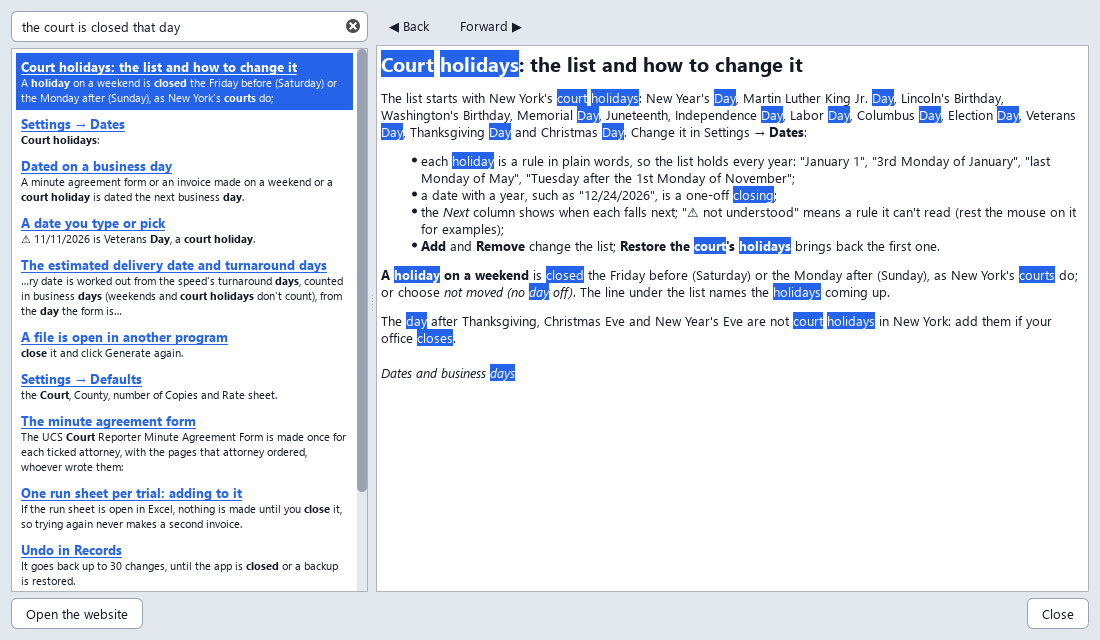
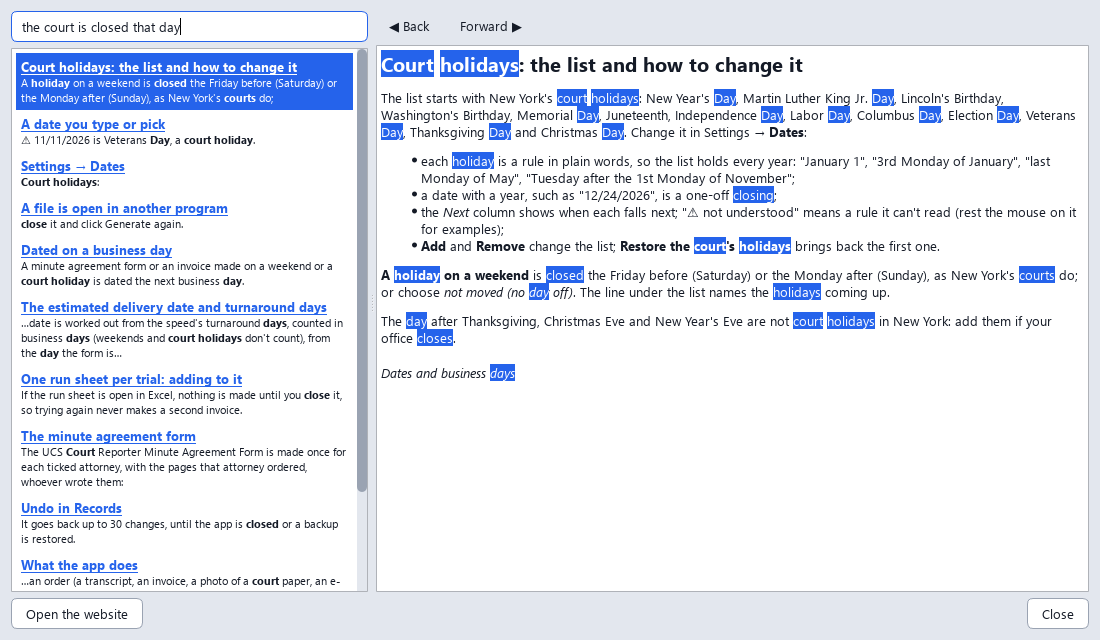
Site for 2.18.0: Settings you can find, the judge's index, the new page names
A section on the rearranged Settings window (settings.png: its page list and the Invoices page) with Find a setting,
Ctrl+, and the Judge's index choice; every "Settings ->" path names the page the setting is on now; help.png
retaken (its results named the old Defaults tab).

Changed region(s): [[0.0, 0.1875, 0.3091, 0.9375], [0.3091, 0.0312, 0.34, 0.0625]]

diff --git a/docs/index.html b/docs/index.html
@@ -80,7 +80,7 @@
     <ol class="steps">
       <li><b>Drop it in</b>A PDF (transcript, invoice), a photo, or paste the e-mail text or a screenshot with Ctrl+V.</li>
       <li><b>Check the details</b>Every field shows where it came from. Guesses are highlighted, and a list offers other candidates. Anything to look at before you generate is listed at the top of the form, each a link to its place. No case name in the document? An earlier job with the same index number in your records suggests one, highlighted for you to check.</li>
-      <li><b>Tick who ordered, and the speeds</b>In <b>Who ordered</b>, tick the firms who ordered: a firm is one row, naming all its attorneys on the title page, and gets one invoice and one agreement (No. of copies follows). In a trial, one tick is the whole trial, every day of it, at the speed its row names; a firm that ordered one day, or a few pages, says so in its row. Two rows that might be one firm, "Smith Law" and "Smith Law Group"? You're asked, <b>Same firm</b> or <b>Not the same</b>, and the app remembers your answer (untick <b>Remember</b> to answer for now only; Settings &rarr; Invoice lists your answers, so you can forget one). Beside the <b>Speed</b> in Who ordered, tick the speeds you offer, once: the invoice lists them all, each at its own price, and the agreement form names one speed at one rate, Expedited when you offer it, unless you pick another there. An e-mail asking for another speed? It's pointed out, and Generate asks you which. Each firm gets a colour, warm for the plaintiffs' firms (orange, red, pink...), cool for the defense (blue, teal, violet...): a small square of it beside the name and a stripe at its edge, the same on every day of a trial and in every card. Point at the square to see the side. <b>Who pays what</b> shows each firm's invoice in short as you tick. Rates and the estimated delivery date follow your rate sheet.</li>
+      <li><b>Tick who ordered, and the speeds</b>In <b>Who ordered</b>, tick the firms who ordered: a firm is one row, naming all its attorneys on the title page, and gets one invoice and one agreement (No. of copies follows). In a trial, one tick is the whole trial, every day of it, at the speed its row names; a firm that ordered one day, or a few pages, says so in its row. Two rows that might be one firm, "Smith Law" and "Smith Law Group"? You're asked, <b>Same firm</b> or <b>Not the same</b>, and the app remembers your answer (untick <b>Remember</b> to answer for now only; Settings &rarr; Reading documents &rarr; Firms you answered lists your answers, so you can forget one). Beside the <b>Speed</b> in Who ordered, tick the speeds you offer, once: the invoice lists them all, each at its own price, and the agreement form names one speed at one rate, Expedited when you offer it, unless you pick another there. An e-mail asking for another speed? It's pointed out, and Generate asks you which. Each firm gets a colour, warm for the plaintiffs' firms (orange, red, pink...), cool for the defense (blue, teal, violet...): a small square of it beside the name and a stripe at its edge, the same on every day of a trial and in every card. Point at the square to see the side. <b>Who pays what</b> shows each firm's invoice in short as you tick. Rates and the estimated delivery date follow your rate sheet.</li>
       <li><b>Generate</b>Tick what to make in the Outputs row: minute agreement, invoice, MOFR, run sheet, each saying how many files it will make as you tick attorneys (<b>Options ▾</b> holds the choices that stay the same from job to job, and the invoice has a card of its own in the form). The button says what it makes: <i>Generate 6/4/2026 only</i>, <i>Generate all 3 days</i>. You see every file, and the math, before anything is saved; then the PDFs are saved, one per attorney you tick, and the run sheet gets the day's takes. Ctrl+Enter does it from the keyboard.</li>
     </ol>
   </div>
@@ -90,7 +90,7 @@
   <div class="wrap two">
     <div>
       <h2>A hundred orders? Drop the whole folder.</h2>
-      <p>Batch mode reads any number of documents and sorts them into one job per case and date. A transcript and its invoice make one form, not two. Two days of the same case make two jobs, but <b>Generate all</b> gives each firm <b>one invoice</b> and one minute agreement for all the days it ordered, and the trial one MOFR (Settings &rarr; Options switches back to forms for each day). Tick the jobs you want and press <b>Generate all</b>: the preview shows every file and the math first, and nothing is saved until you say so. The ticks decide what counts: every card on the right shows all the ticked days, whichever one is shown, so untick a day to see what difference it makes (it greys out but stays in the list). Days already made keep their tick and get a ✓, and the button says what is left: <i>Generate the 1 day left</i>. The list on the left shows each job's case, date and day of the week, oldest first (click a heading to sort by it), the <b>Total pages</b> (every reporter's, no word index) and <b>Your pages</b> (those you wrote); a job read from several documents lists them under it, and a right-click on one shows its text or moves it to a job of its own. A ⚠ next to a job means something to check; hover over it to see what. <b>New job</b> clears the list without asking, and <b>Undo</b> brings it all back for a few seconds.</p>
+      <p>Batch mode reads any number of documents and sorts them into one job per case and date. A transcript and its invoice make one form, not two. Two days of the same case make two jobs, but <b>Generate all</b> gives each firm <b>one invoice</b> and one minute agreement for all the days it ordered, and the trial one MOFR (Settings &rarr; Trials switches back to forms for each day). Tick the jobs you want and press <b>Generate all</b>: the preview shows every file and the math first, and nothing is saved until you say so. The ticks decide what counts: every card on the right shows all the ticked days, whichever one is shown, so untick a day to see what difference it makes (it greys out but stays in the list). Days already made keep their tick and get a ✓, and the button says what is left: <i>Generate the 1 day left</i>. The list on the left shows each job's case, date and day of the week, oldest first (click a heading to sort by it), the <b>Total pages</b> (every reporter's, no word index) and <b>Your pages</b> (those you wrote); a job read from several documents lists them under it, and a right-click on one shows its text or moves it to a job of its own. A ⚠ next to a job means something to check; hover over it to see what. <b>New job</b> clears the list without asking, and <b>Undo</b> brings it all back for a few seconds.</p>
     </div>
     <img class="shot" src="batch.png" alt="Batch mode: five jobs in the list on the left, oldest first, with their day of the week, the Total pages and Your pages (30 and 18 for a trial day two reporters wrote), the Who ordered card: the trial's three firms each with a square and a stripe of its colour, two of them ticked once for the whole trial (3 days) at Expedite, with Your pages billed to each (52 of 74 total), and the Outputs row: how many files each output makes for this day and for all the days, Generate this job and Generate all 5 jobs">
   </div>
@@ -111,8 +111,8 @@
     <img class="shot" src="invoice.png" alt="One invoice for two days of a case, listing the Regular and Expedite amounts">
     <div>
       <h2>Invoices from your transcripts</h2>
-      <p>Drop a transcript PDF and tick <b>Invoice</b>. The page count leaves out the word index printed after the transcript, and the line under it says so: "Transcript pages 378&ndash;460 &middot; excludes the 13 word-index pages after them". A Min-U-Script cover before the title page isn't a page either: it isn't counted or billed (a typed cover page still is). It is counted four ways (up to the index, by the line numbers, by the printed page numbers, and the index found from the end); if they disagree, or the index would be more than a quarter of the PDF, the field turns amber and tells you why. The page count and your rate sheet price the original, each party's copy and e-mailed copy, and for long transcripts an index for each party, plus one for the judge that the parties split. Whether there is an index is decided on the whole transcript, every reporter's pages (50 total pages or more to start with): your 45 pages of 83 total pages get one, charged on your 45. Typed fewer pages in <b>Est. number of pages</b> than the transcript has, and that would change it (40 of 83, say)? <b>Generate</b> asks you instead of deciding, and remembers your answer for that day; <b>Peripherals…</b> shows it and lets you change it. The speeds you tick under <b>Speeds offered</b> (Regular and Expedited to start with) are the ones the invoice offers, each with its turnaround and amount, and with how to pay you. The agreement form names one of them, at one rate per page: Expedited when you offer it, otherwise the slowest. Settings &rarr; Invoice changes that rule, and the <b>Speed</b> dropdown in <b>Who ordered</b> changes it for the job, every day of a trial. No transcript, just a caption page? Type the pages in <b>Est. number of pages</b> and the invoice bills them. Want your page count, your pages for each day and the charges spelled out for this job? Tick <b>Show granular detail</b>, and choose what it shows. <b>Peripherals…</b> drops the e-mailed copy, or says yes or no to the index, for this job only, and the <b>Invoice</b> card says why there is an index or not: "83 total pages, 50 or more". The notes on the invoice are yours to write, too: place them where you like and have them show only when they apply ("delivered once every party has paid" only when several parties ordered). Four firms sharing the pages can come to part of a cent a page ($6.6125): keep every fraction and round once at the end, as before, or set <b>Rounding</b> to <i>The price a page, to the cent</i> to bill $6.61 &times; 1,000 pages = $6,610.00, the way a firm checks it with a calculator. The prices in Who ordered which pages&hellip; are rounded the same way.</p>
-      <p>Shared the trial with another reporter? The invoice bills only <b>your</b> pages, the ones with your initials at the foot: 65 of a 150-page transcript, say. <b>Whose pages…</b> lets you tick <b>My pages</b>, another reporter's pages, or <b>The whole transcript</b>, and the app asks when it can't tell. Each other reporter you tick gets invoices for their own pages, in their name, with their address and payment details (Settings &rarr; Run sheet &rarr; Invoices for, or <b>Details…</b>), numbered apart from yours (DS-2026-0001), with file names that say whose they are. Sample shown uses made-up names.</p>
+      <p>Drop a transcript PDF and tick <b>Invoice</b>. The page count leaves out the word index printed after the transcript, and the line under it says so: "Transcript pages 378&ndash;460 &middot; excludes the 13 word-index pages after them". A Min-U-Script cover before the title page isn't a page either: it isn't counted or billed (a typed cover page still is). It is counted four ways (up to the index, by the line numbers, by the printed page numbers, and the index found from the end); if they disagree, or the index would be more than a quarter of the PDF, the field turns amber and tells you why. The page count and your rate sheet price the original, each party's copy and e-mailed copy, and for long transcripts an index for each party, plus one for the judge that the parties split. Whether there is an index is decided on the whole transcript, every reporter's pages (50 total pages or more to start with): your 45 pages of 83 total pages get one, charged on your 45. Typed fewer pages in <b>Est. number of pages</b> than the transcript has, and that would change it (40 of 83, say)? <b>Generate</b> asks you instead of deciding, and remembers your answer for that day; <b>Peripherals…</b> shows it and lets you change it. The speeds you tick under <b>Speeds offered</b> (Regular and Expedited to start with) are the ones the invoice offers, each with its turnaround and amount, and with how to pay you. The agreement form names one of them, at one rate per page: Expedited when you offer it, otherwise the slowest. Settings &rarr; Rates and speeds changes that rule, and the <b>Speed</b> dropdown in <b>Who ordered</b> changes it for the job, every day of a trial. No transcript, just a caption page? Type the pages in <b>Est. number of pages</b> and the invoice bills them. Want your page count, your pages for each day and the charges spelled out for this job? Tick <b>Show granular detail</b>, and choose what it shows. <b>Peripherals…</b> drops the e-mailed copy, or says yes or no to the index, for this job only, and the <b>Invoice</b> card says why there is an index or not: "83 total pages, 50 or more". The notes on the invoice are yours to write, too: place them where you like and have them show only when they apply ("delivered once every party has paid" only when several parties ordered). Four firms sharing the pages can come to part of a cent a page ($6.6125): keep every fraction and round once at the end, as before, or set <b>Rounding</b> to <i>The price a page, to the cent</i> to bill $6.61 &times; 1,000 pages = $6,610.00, the way a firm checks it with a calculator. The prices in Who ordered which pages&hellip; are rounded the same way.</p>
+      <p>Shared the trial with another reporter? The invoice bills only <b>your</b> pages, the ones with your initials at the foot: 65 of a 150-page transcript, say. <b>Whose pages…</b> lets you tick <b>My pages</b>, another reporter's pages, or <b>The whole transcript</b>, and the app asks when it can't tell. Each other reporter you tick gets invoices for their own pages, in their name, with their address and payment details (Settings &rarr; Other reporters &rarr; Invoices for, or <b>Details…</b>), numbered apart from yours (DS-2026-0001), with file names that say whose they are. Sample shown uses made-up names.</p>
     </div>
   </div>
 </section>
@@ -131,8 +131,8 @@
   <div class="wrap two">
     <div>
       <h2>Who pays for what, in plain sight</h2>
-      <p>Who ordered, what and at what speed, in one card: <b>Who ordered</b> lists every firm of the trial, whichever day you're looking at. Drop the four transcripts of a trial, tick the two firms that ordered it, and that's it: each orders the whole trial, at the speed its row names (<i>Expedite</i>, say), and Generate all bills it that way, without a question. A day you drop in later is theirs too. A firm that ordered only one day, or a few pages? Its <b>What</b> box makes it <i>Only 6/4/2026</i>, or opens Who ordered which pages… for the rest, and its tick goes half full. Its <b>Speed</b> box names the speed it's billed, and choosing another sets it for every day. A firm ordering alone shows <i>They choose: Regular or Expedite</i>: its invoice lists each speed. The line under the table says it in words ("Counsel &amp; Counsel and Smith Law: the whole trial (4 days), at Expedite."), and what Generate all will bill: a ✓ for a day invoiced already, and in amber when an invoice won't be made yet (a day nobody ordered, an excerpt to check, whose pages to bill). Each firm has a square and a stripe of its colour, the same on every day. Rather tick each day on its own? Settings &rarr; Options. Opened again from Records, a trial comes back with who ordered each day. <b>Generate all</b> asks before it bills a case with a day not decided: go back and decide, or go on without it.</p>
-      <p><b>Different speeds on the same pages?</b> Firms that share pages each commit to a speed: each row names the speed it's billed, the agreement form's unless you choose another in the card's <b>Speed</b> column (or one run's own in Who ordered which pages…), and Generate bills it without a question (Settings &rarr; Invoice can have it ask instead). The one original is billed at the fastest speed ordered; each slower firm pays its share as if every firm had ordered its speed, the fastest pays the rest, and each pays its own copies at its own speed. One firm at Daily and one at Immediate, 10 pages of Sample Rates: the original is $7.60 a page at Immediate, the Daily firm pays $6.50 &divide; 2 = $3.25 of it and the Immediate firm $4.35, and together they pay exactly the bill. A firm with two speeds gets one minute agreement, both speeds ticked. For now, at most two speeds may share the same pages. Sample shown uses made-up names.</p>
+      <p>Who ordered, what and at what speed, in one card: <b>Who ordered</b> lists every firm of the trial, whichever day you're looking at. Drop the four transcripts of a trial, tick the two firms that ordered it, and that's it: each orders the whole trial, at the speed its row names (<i>Expedite</i>, say), and Generate all bills it that way, without a question. A day you drop in later is theirs too. A firm that ordered only one day, or a few pages? Its <b>What</b> box makes it <i>Only 6/4/2026</i>, or opens Who ordered which pages… for the rest, and its tick goes half full. Its <b>Speed</b> box names the speed it's billed, and choosing another sets it for every day. A firm ordering alone shows <i>They choose: Regular or Expedite</i>: its invoice lists each speed. The line under the table says it in words ("Counsel &amp; Counsel and Smith Law: the whole trial (4 days), at Expedite."), and what Generate all will bill: a ✓ for a day invoiced already, and in amber when an invoice won't be made yet (a day nobody ordered, an excerpt to check, whose pages to bill). Each firm has a square and a stripe of its colour, the same on every day. Rather tick each day on its own? Settings &rarr; Trials. Opened again from Records, a trial comes back with who ordered each day. <b>Generate all</b> asks before it bills a case with a day not decided: go back and decide, or go on without it.</p>
+      <p><b>Different speeds on the same pages?</b> Firms that share pages each commit to a speed: each row names the speed it's billed, the agreement form's unless you choose another in the card's <b>Speed</b> column (or one run's own in Who ordered which pages…), and Generate bills it without a question (Settings &rarr; Rates and speeds can have it ask instead). The one original is billed at the fastest speed ordered; each slower firm pays its share as if every firm had ordered its speed, the fastest pays the rest, and each pays its own copies at its own speed. One firm at Daily and one at Immediate, 10 pages of Sample Rates: the original is $7.60 a page at Immediate, the Daily firm pays $6.50 &divide; 2 = $3.25 of it and the Immediate firm $4.35, and together they pay exactly the bill. A firm with two speeds gets one minute agreement, both speeds ticked. For now, at most two speeds may share the same pages. Sample shown uses made-up names.</p>
     </div>
     <img class="shot" src="orders.png" alt="The Who ordered card for a trial of three days: the Speed of the forms and the speeds offered at the top, a row per firm with a square and a stripe of its colour (Dana Smith orange, Alex B. Counsel blue, Kim Park teal), Dana Smith and Alex B. Counsel ticked once, each ordering the whole trial (3 days) at Expedite, with 52 of 74 total under Your pages, Kim Park unticked, the details of the row selected under the table, and the line saying it in words">
   </div>
@@ -143,7 +143,7 @@
     <img class="shot" src="preview.png" alt="The preview: tabs coloured by kind of file (the math, two minute agreements, two invoices), the first agreement shown before it is saved, with Go back and Save">
     <div>
       <h2>See it before it's saved</h2>
-      <p>Click <b>Generate</b>, or <b>Generate all</b> for a whole batch, and the app first shows you each form and invoice as it will be saved, a tab for each file, the invoice with the number it will get. Each kind of file has its own tab colour, and the first tab, <b>The math</b>, shows how every amount is reached. <b>Side by side</b> shows every file at once; <b>Ctrl +</b> and <b>Ctrl &minus;</b> (or Ctrl and the mouse wheel) zoom. Many files? Arrows at the end of the tabs, a <b>Files ▾</b> menu and <b>Ctrl+Tab</b> take you to any of them. <b>Save</b> saves them. <b>Go back</b> saves nothing and takes no invoice number, so you can fix a field and try again. The run sheet, a spreadsheet, is saved with the rest but not shown. Rather skip it? <b>Don't show previews anymore</b> turns it off, and Settings turns it back on. Once the files are saved, <b>Print…</b> sends them to your printer. Sample shown uses made-up names.</p>
+      <p>Click <b>Generate</b>, or <b>Generate all</b> for a whole batch, and the app first shows you each form and invoice as it will be saved, a tab for each file, the invoice with the number it will get. Each kind of file has its own tab colour, and the first tab, <b>The math</b>, shows how every amount is reached. <b>Side by side</b> shows every file at once; <b>Ctrl +</b> and <b>Ctrl &minus;</b> (or Ctrl and the mouse wheel) zoom. Many files? Arrows at the end of the tabs, a <b>Files ▾</b> menu and <b>Ctrl+Tab</b> take you to any of them. <b>Save</b> saves them. <b>Go back</b> saves nothing and takes no invoice number, so you can fix a field and try again. The run sheet, a spreadsheet, is saved with the rest but not shown. Rather skip it? <b>Don't show previews anymore</b> turns it off, and Settings &rarr; Files and folders turns it back on. Once the files are saved, <b>Print…</b> sends them to your printer. Sample shown uses made-up names.</p>
     </div>
   </div>
 </section>
@@ -152,7 +152,7 @@
   <div class="wrap two">
     <div>
       <h2>Asked how you got that number?</h2>
-      <p>Your invoices can stay clean, with just the amounts, and the math is still at hand. <b>The math</b>, the preview's first tab, lays out each amount in tables: <b>By invoice</b>, a row for each charge with its pages, rate and cost, whether <i>each firm splits this cost</i> or <i>pays for its own</i>, and what this firm pays, stretch by stretch of pages ("50 pages ordered by 2 firms &hellip; &divide; 2"); or <b>Firms side by side</b>, a column for each firm. It remembers the one you chose, and the Invoice card has its own link to it before you generate. Firms ordered the same pages at different speeds? <b>Who pays what a page</b> shows, for each set of those pages, what each firm pays a page of every charge, just as its invoice bills it, and what they come to together. When several firms share the work, <b>All the firms together</b> checks that what they pay covers it. <b>Copy all</b> copies it as text, a line for each charge, for a reply. With previews off, it comes in a small window after saving: <b>OK</b>, <b>Copy all</b>, <b>Save as PDF…</b> (everyone's, or only what one firm owes) for the attorney who asked, or <b>Don't show this anymore</b> (<i>Show the math of each invoice</i> in Settings &rarr; Options brings it back). And it's kept: <b>Generate</b> saves the math as PDFs in a <i>Math</i> folder of its own, in the case's folder or wherever your invoices go, one for each invoice (to send the firm that asks) and one for the whole job; the list under the math, or Settings &rarr; Invoice, says which, or none, and the box at the end says so when the math wasn't saved. Prefer it on the invoice itself? Settings &rarr; Invoice can also save a <b>detailed copy</b> of every invoice, the same invoice number with the full breakdown. Sample shown uses made-up names.</p>
+      <p>Your invoices can stay clean, with just the amounts, and the math is still at hand. <b>The math</b>, the preview's first tab, lays out each amount in tables: <b>By invoice</b>, a row for each charge with its pages, rate and cost, whether <i>each firm splits this cost</i> or <i>pays for its own</i>, and what this firm pays, stretch by stretch of pages ("50 pages ordered by 2 firms &hellip; &divide; 2"); or <b>Firms side by side</b>, a column for each firm. It remembers the one you chose, and the Invoice card has its own link to it before you generate. Firms ordered the same pages at different speeds? <b>Who pays what a page</b> shows, for each set of those pages, what each firm pays a page of every charge, just as its invoice bills it, and what they come to together. When several firms share the work, <b>All the firms together</b> checks that what they pay covers it. <b>Copy all</b> copies it as text, a line for each charge, for a reply. With previews off, it comes in a small window after saving: <b>OK</b>, <b>Copy all</b>, <b>Save as PDF…</b> (everyone's, or only what one firm owes) for the attorney who asked, or <b>Don't show this anymore</b> (<i>Show the math of each invoice</i> in Settings &rarr; Invoices brings it back). And it's kept: <b>Generate</b> saves the math as PDFs in a <i>Math</i> folder of its own, in the case's folder or wherever your invoices go, one for each invoice (to send the firm that asks) and one for the whole job; the list under the math, or Settings &rarr; Invoices, says which, or none, and the box at the end says so when the math wasn't saved. Prefer it on the invoice itself? Settings &rarr; Invoices can also save a <b>detailed copy</b> of every invoice, the same invoice number with the full breakdown. Sample shown uses made-up names.</p>
     </div>
     <img class="shot" src="math.png" alt="The math in tables, By invoice: the original and the judge's index split stretch by stretch (40 pages ordered by this firm alone, 50 pages ordered by 2 firms), the copy, e-mailed copy and index each firm pays for its own, and what this firm pays at each speed">
   </div>
@@ -162,7 +162,7 @@
   <div class="wrap two">
     <div>
       <h2>Shared trial? The run sheet keeps count.</h2>
-      <p>When reporters take turns, each one puts their initials on the pages they write. <b>Run sheet</b> ticks itself when two or more reporters wrote the case's transcripts (and unticks when one did; click it to decide yourself), and the app reads those initials page by page and adds a row per take to the trial's run sheet in Excel: date, reporter, pages written, start and end page, and the first and last header printed at the top of the take's pages, as printed (or nothing, if you'd rather type the witness yourself: Settings &rarr; Run sheet). The run sheet is kept in the case's <i>Trial Runs</i> folder, beside its forms and invoices. The app finds it there, or wherever your records say it is, by index number or case name (one trial can have several index numbers) and asks before adding to it. All the days of a trial go on it in one go: if it's open in Excel, you're told to close it before anything is made, so it never ends up missing a day. Filter by reporter to see their pages. To look back on a trial, the <b>By Reporter</b> sheet has each reporter's takes, pages, share of the pages and the days they worked; <b>Witnesses</b> lists every running head the transcripts printed, as printed, with its days and reporters; and <b>Who Ordered</b> lists, from your records, each invoice of the case (paid or not) and each firm with an agreement but no invoice yet. In the app, the <b>Who transcribed what</b> card lists every take of the days ticked, with each reporter's pages, your takes highlighted; <b>Only yours</b> or a box for each reporter narrows it down, and <b>Save a copy</b> makes an Excel or CSV file of it. A page's initials misread, so a take comes out wrong? Double-click it, type the page it really ends on, and say yes: your pages, the invoice and the run sheet follow. Sample shown uses made-up names.</p>
+      <p>When reporters take turns, each one puts their initials on the pages they write. <b>Run sheet</b> ticks itself when two or more reporters wrote the case's transcripts (and unticks when one did; click it to decide yourself), and the app reads those initials page by page and adds a row per take to the trial's run sheet in Excel: date, reporter, pages written, start and end page, and the first and last header printed at the top of the take's pages, as printed (or nothing, if you'd rather type the witness yourself: Settings &rarr; Run sheets). The run sheet is kept in the case's <i>Trial Runs</i> folder, beside its forms and invoices. The app finds it there, or wherever your records say it is, by index number or case name (one trial can have several index numbers) and asks before adding to it. All the days of a trial go on it in one go: if it's open in Excel, you're told to close it before anything is made, so it never ends up missing a day. Filter by reporter to see their pages. To look back on a trial, the <b>By Reporter</b> sheet has each reporter's takes, pages, share of the pages and the days they worked; <b>Witnesses</b> lists every running head the transcripts printed, as printed, with its days and reporters; and <b>Who Ordered</b> lists, from your records, each invoice of the case (paid or not) and each firm with an agreement but no invoice yet. In the app, the <b>Who transcribed what</b> card lists every take of the days ticked, with each reporter's pages, your takes highlighted; <b>Only yours</b> or a box for each reporter narrows it down, and <b>Save a copy</b> makes an Excel or CSV file of it. A page's initials misread, so a take comes out wrong? Double-click it, type the page it really ends on, and say yes: your pages, the invoice and the run sheet follow. Sample shown uses made-up names.</p>
     </div>
     <img class="shot" src="runsheet.png" alt="A run sheet: one row per take, with the reporter, pages written, page numbers and the headers printed at the top of the take's first and last page">
   </div>
@@ -191,9 +191,21 @@
   <div class="wrap two">
     <div>
       <h2>Help that understands your words</h2>
-      <p>The whole manual is built in: press <b>F1</b>, or Help &rarr; How to use, and type a question the way you'd ask it. "The court is closed that day" finds the court holidays, "bill a lawyer by email" the e-mailed copies, and a typo like "invioce" still finds invoices. The words you looked for are marked in the page, links take you to the next topic, and F1 opens the page for the part of the window you're in (Settings has a Help button on each tab). It all runs on your computer.</p>
+      <p>The whole manual is built in: press <b>F1</b>, or Help &rarr; How to use, and type a question the way you'd ask it. "The court is closed that day" finds the court holidays, "bill a lawyer by email" the e-mailed copies, and a typo like "invioce" still finds invoices. The words you looked for are marked in the page, links take you to the next topic, and F1 opens the page for the part of the window you're in (Settings has a Help button on each page). It all runs on your computer.</p>
     </div>
     <img class="shot" src="help.png" alt="The Help window: the question the court is closed that day typed in the search box, the topics found with a line of each, and the court holidays page open with the words found marked">
+  </div>
+</section>
+
+<section>
+  <div class="wrap two">
+    <img class="shot" src="settings.png" alt="The Settings window: its pages listed on the left, from My info to Program, each with a line saying what is on it, a Find a setting box above them, and the Invoices page open, its Charges and Index cards showing the Judge's index choice">
+    <div>
+      <h2>Settings you can find</h2>
+      <p>Settings lists its pages down the left, each with a line saying what's on it: your details, other reporters, reading documents, trials, dates, rates and speeds, the outputs, invoices, run sheets, records, files and folders. Things that work together sit together: each speed's turnaround days next to how the invoice words them, every file name in one place, all of a trial on <b>Trials</b>.</p>
+      <p>Not sure where something is? Type a word in <b>Find a setting</b> ("judge", "dark", "file name") and click what it finds. Settings opens where you left it, and <b>Ctrl+,</b> opens it from anywhere.</p>
+      <p>Bill each attorney for their index but not for the judge's? Choose <b>Not billed</b> beside <b>Judge's index</b>: each firm still pays its own index, and the Invoice card says "no judge's index".</p>
+    </div>
   </div>
 </section>
 
@@ -201,7 +213,7 @@
   <div class="wrap">
     <h2>Good to know</h2>
     <div class="grid">
-      <div class="card"><h3>Private</h3><p>Everything runs on your computer. Photos are read with Windows' built-in text recognition. Nothing is uploaded. Once a day the app asks GitHub whether there is a newer version (it sends nothing about you or your cases); you can turn that off in Settings. When there is one, an <b>Update</b> button shows at the top of the window.</p></div>
+      <div class="card"><h3>Private</h3><p>Everything runs on your computer. Photos are read with Windows' built-in text recognition. Nothing is uploaded. Once a day the app asks GitHub whether there is a newer version (it sends nothing about you or your cases); you can turn that off in Settings &rarr; Program. When there is one, an <b>Update</b> button shows at the top of the window.</p></div>
       <div class="card"><h3>Asks when unsure</h3><p>Missing or conflicting items (index number, dates, judge) are raised before filling, never silently guessed. Documents of one job whose index numbers don't match are pointed out before anything is made.</p></div>
       <div class="card"><h3>Remembers you</h3><p>Your name, address, phone, e-mail, rate sheet, copies and signature are set once in Settings. The speeds you offer and what you tick in the Outputs box stay ticked.</p></div>
       <div class="card"><h3>Fix it afterwards</h3><p>The PDFs stay fillable: every value the app typed in, invoice amounts included, can be corrected in a PDF viewer. When it's final, File &rarr; Lock finished PDFs saves a locked copy.</p></div>
